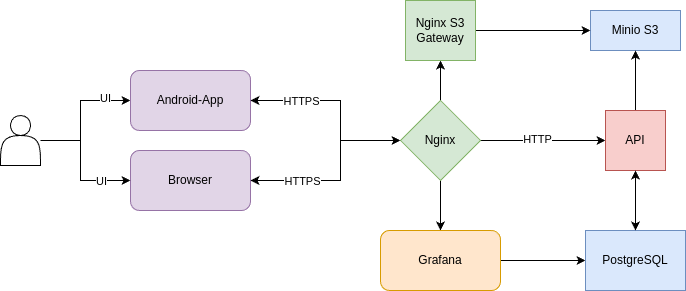
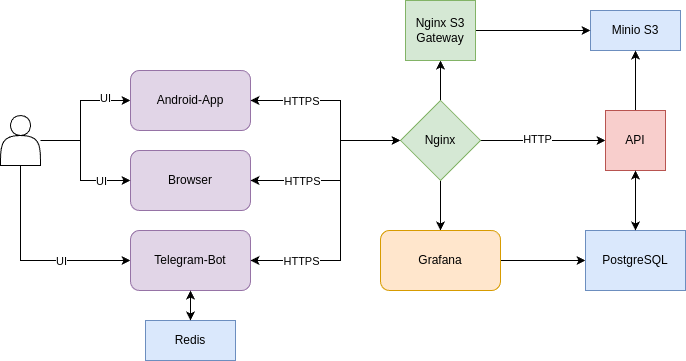
Add bot docs

diff --git a/docs/general.md b/docs/general.md
@@ -3,11 +3,13 @@
 Проект включает следующие компоненты:
 
 ### 🔹 Основные компоненты бэкенда:
-- **API** — REST API сервис, разработанный на **FastAPI**, обеспечивающий взаимодействие между клиентским приложением и сервером.
+- **API** — REST API сервис, разработанный на **FastAPI**, реализующий всю бизнес-логику приложения.
+- **Bot** — бот, реализующий взаимодействие с пользователем через Telegram.
+- **Redis** — кэш-система, необходимая для корректной работы бота.
 - **Minio** — S3-совместимое хранилище для хранения и управления изображениями.
 - **Postgres** — реляционная база данных, используемая для хранения основной информации.
 - **Grafana** — инструмент для визуализации метрик и мониторинга состояния системы.
 - **Nginx-S3-Gateway** — реверс-прокси для Minio, поддерживающий кэширование и обеспечивающий безопасный доступ к хранилищу.
 - **Nginx** — основной реверс-прокси для всего приложения, обеспечивающий HTTPS-соединение и балансировку нагрузки.
 
-![Architecture](docs/arch.png)
+![Architecture](arch.png)

diff --git a/README.md b/README.md
@@ -4,7 +4,7 @@
 
 ## 📌 Описание проекта
 
-**Mentoro** — это платформа для поиска и взаимодействия с менторами. Проект состоит из бэкенда и Android-приложения, которые взаимодействуют через REST API. Основная цель сервиса — предоставить пользователям удобный инструмент для поиска наставников, обмена знаниями и профессионального роста.
+**Mentoro** — это платформа для поиска и взаимодействия с менторами. Проект состоит из бэкенда, Android-приложения и telegram-бота, которые взаимодействуют через REST API. Основная цель сервиса — предоставить пользователям удобный инструмент для поиска наставников, обмена знаниями и профессионального роста.
 
 
 ## 🏗 Архитектура проекта

diff --git a/docs/cicd.md b/docs/cicd.md
@@ -13,13 +13,13 @@
 - Автоматический деплой новых версий приложения, прошедших CI.
 - Обновление и перезапуск контейнеров с помощью **Watchtower**.
 
-![CI/CD](docs/pipeline.png)
+![CI/CD](pipeline.png)
 
 
 ## 🧪 Тестирование
 
 Для обеспечения качества кода используются следующие инструменты и подходы:
-- **pytest** — для написания unit- и интеграционных тестов.
+- **pytest** — для написания тестов.
 - **coverage.py** — для измерения покрытия кода тестами.
 - **E2E-тесты** — покрывают все HTTP-эндпоинты, что позволяет убедиться в корректности работы системы в целом.
 

diff --git a/docs/arch.md b/docs/arch.md
@@ -5,6 +5,8 @@
 - **FastAPI** — высокопроизводительный фреймворк для создания API на Python.
 - **SQLAlchemy** и **Alembic** — для работы с базой данных и управления миграциями.
 - **Dishka** — для реализации dependency injection, что упрощает тестирование и поддержку кода.
+- **Aiogram** — фреймворк для создания ботов в Telegram.
+- **Aiogram-Dialog** — фрэймворк для быстрого и эффективного создания UI в Telegram поверх Aiogram.
 
 
 ## 🎯 Архитектурные принципы
